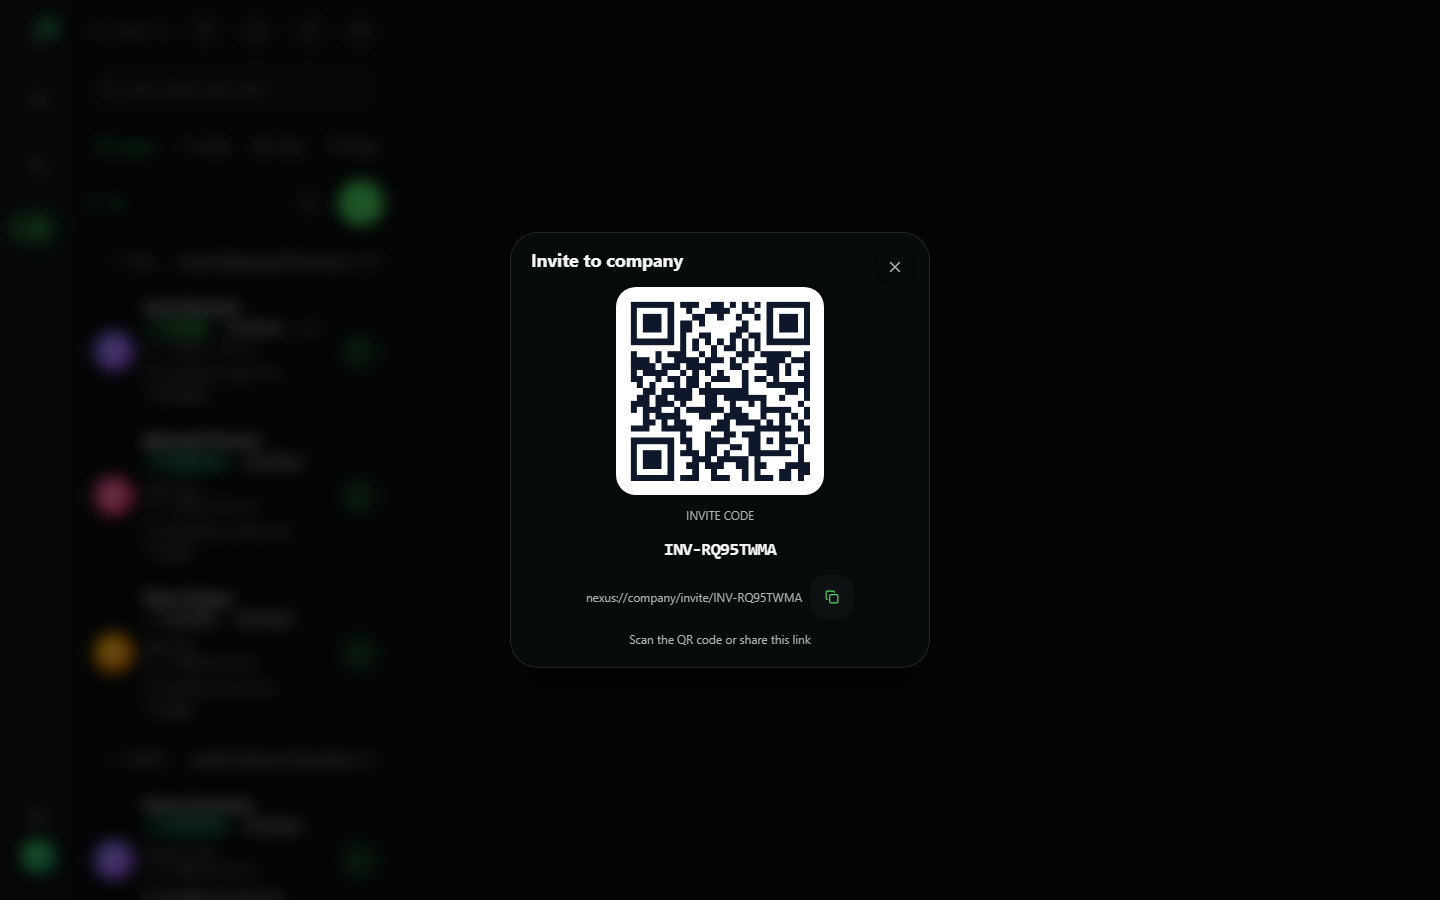
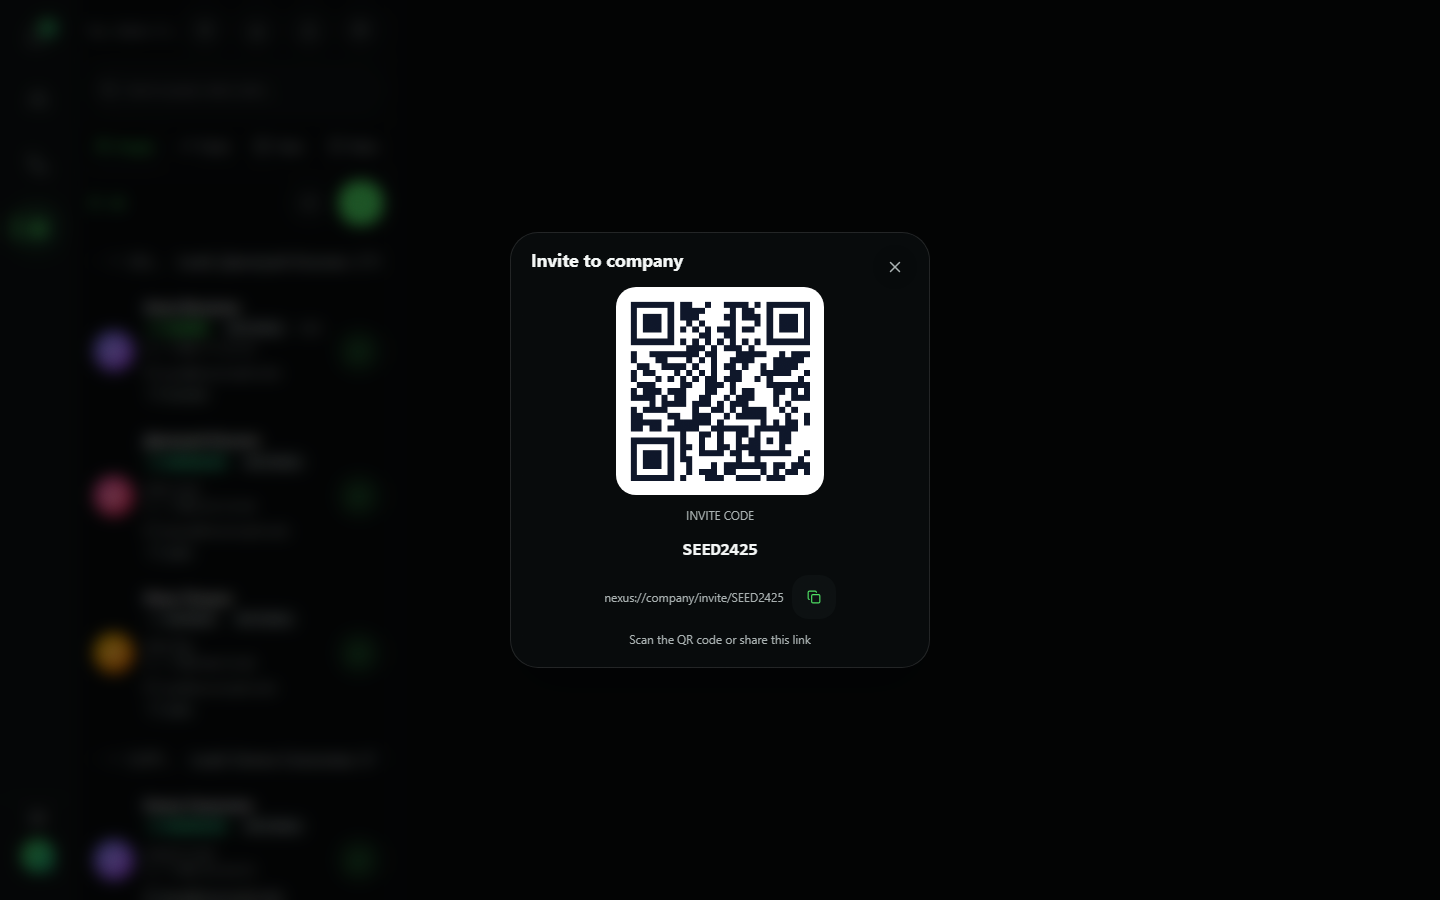
test(e2e): keep the CRM SEO screenshots out of routine runs
The screenshot spec rewrote the committed docs images on every e2e run, so a random invite code and a blinking caret left the working tree dirty. Routine runs now write to test-results and only an explicit refresh flag touches the committed files.

Changed region(s): [[0.4375, 0.3111, 0.5625, 0.56], [0.4062, 0.6533, 0.5938, 0.6844], [0.4688, 0.5911, 0.5312, 0.6222]]

diff --git a/e2e/crm-screenshots.spec.ts b/e2e/crm-screenshots.spec.ts
@@ -1,21 +1,48 @@
 /**
  * CRM Screenshots for SEO article.
  * Run: npx playwright test e2e/crm-screenshots.spec.ts
+ * Refresh the committed images:
+ *   UPDATE_SEO_SCREENSHOTS=1 npx playwright test e2e/crm-screenshots.spec.ts
+ *
  * Dev server runs via playwright.config.ts webServer (VITE_USE_MOCK=true).
  * Premium is seeded via localStorage entitlement cache so all 4 CRM tabs render.
+ *
+ * Routine e2e runs write the captures to test-results/ so the committed
+ * documentation images never churn; only the explicit refresh above replaces
+ * them.
  */
+import fs from 'node:fs';
+import path from 'node:path';
 import { test, expect, type Page } from '@playwright/test';
 import { ensureAppReady } from './test-utils';
 
 const SHOT_DIR = 'docs/seo/screenshots';
+/** Only an explicit refresh may replace the committed documentation images. */
+const REFRESH = process.env.UPDATE_SEO_SCREENSHOTS === '1';
+const OUT_DIR = REFRESH ? SHOT_DIR : path.join('test-results', 'seo-screenshots');
+
+/**
+ * Fixed placeholder for the company invite code.
+ *
+ * The CRM issues a random 8-character code per browser and renders it (plus a
+ * QR of the deep link) inside the invite dialog, so the screenshot changed on
+ * every run. The code is device-local — it only resolves against the invite
+ * table of the browser that generated it — so a seeded placeholder can never
+ * grant access to a real company.
+ */
+const FIXED_INVITE_CODE = 'SEED2425';
 
 async function seedPremium(page: Page) {
-  await page.addInitScript(() => {
-    localStorage.setItem(
-      'premium-entitlement-cache',
-      JSON.stringify({ premium: true, plan: 'premium', expiresAt: Date.now() + 90 * 24 * 3600 * 1000 }),
-    );
-  });
+  await page.addInitScript(
+    ({ inviteCode }) => {
+      localStorage.setItem(
+        'premium-entitlement-cache',
+        JSON.stringify({ premium: true, plan: 'premium', expiresAt: Date.now() + 90 * 24 * 3600 * 1000 }),
+      );
+      localStorage.setItem('neumorphic.crm.invite', inviteCode);
+    },
+    { inviteCode: FIXED_INVITE_CODE },
+  );
 }
 
 async function gotoCrm(page: Page) {
@@ -27,11 +54,27 @@ async function gotoCrm(page: Page) {
 
 async function shot(page: Page, name: string) {
   await page.waitForTimeout(500);
-  const p = await page.screenshot({ path: `${SHOT_DIR}/${name}.png` });
+  // `animations: disabled` fast-forwards CSS animations/transitions and
+  // `caret: hide` drops the blinking text caret, so two runs of the same view
+  // produce the very same pixels.
+  fs.mkdirSync(OUT_DIR, { recursive: true });
+  const p = await page.screenshot({
+    path: path.join(OUT_DIR, `${name}.png`),
+    animations: 'disabled',
+    caret: 'hide',
+  });
   expect(p.length).toBeGreaterThan(1000);
 }
 
 test.describe('CRM Screenshots', () => {
+  test.beforeEach(async ({ page }) => {
+    // The app already honours `prefers-reduced-motion: reduce` (see
+    // src/index.css and AnimationContext), so emulating it renders every
+    // screen in its settled state — the captures stay identical between runs
+    // instead of catching a half-finished animation.
+    await page.emulateMedia({ reducedMotion: 'reduce' });
+  });
+
   test('13-crm-overview', async ({ page }) => {
     await gotoCrm(page);
     await shot(page, '13-crm-overview');

diff --git a/CHANGELOG.md b/CHANGELOG.md
@@ -30,6 +30,12 @@
 - **Embed: инструкция «как встроить» в `SiteChatManager.tsx` + FAQ-пункт в `HelpSupportSection.tsx`** (2026-10-03): в карточке site-чата добавлен сворачиваемый `<details>`-блок «Как встроить на ваш сайт» с 3 шагами (скопировать код → вставить перед `</body>` → заявки и контакты попадают сюда и в CRM как веб-лиды), расположен под настройками виджета над snippet. В `HelpSupportSection` добавлен FAQ Q5/A5 про встраивание чата. i18n ×8 (`company.embedHowTo`/`embedStep1..3`, `settings.faqQ5`/`faqA5`). Регрессия: `SiteChatManager.test.tsx` **8/8** (+1: рендер шагов инструкции). Гейты: lint 0, tsc clean, l10n PASS (0 errors), `allTests.test.ts` **2778/2778**, `MediaViewer.test.tsx` **17/17**.
 
 ### Fixed
+- **SEO-скриншоты CRM больше не портят репозиторий (2026-10-22).** Спека `e2e/crm-screenshots.spec.ts` переписывала закоммиченные картинки в `docs/seo/screenshots/` при каждом прогоне e2e: случайный код приглашения CRM и качающийся каретка давали разные байты, поэтому рабочее дерево «пачкалось» после каждого полного прогона.
+  1. Ручные прогоны теперь пишут снимки в `test-results/seo-screenshots/`; закоммиченные картинки обновляются только при явном `UPDATE_SEO_SCREENSHOTS=1` (это артефакты документации, а не результаты тестов).
+  2. Код приглашения зафиксирован (`SEED2425`, только локальный deep link устройства — доступ к реальной компании он не даёт), анимации и каретка отключены при съёмке.
+  3. Проверено: два прогона подряд дают побайтово одинаковые файлы, а закоммиченные картинки совпадают с результатом обычного прогона (пиксельная разница 0).
+  4. D1-D5 перескан: 0 findings - правки только в e2e-спеке и артефактах документации.
+  Гейты: lint 0 (eslint + tsc), vitest **6582/6582** (382 файла), icon-font-audit 0 (657), button-audit 0 (289/436), l10n PASS (0 errors / 10 dynamic), component-audit 0/0/0, dead-export dead 0, orphan PASS, build 0 warnings, e2e **210/210** (11.7m).
 - **Сервер теперь под линтером (§1.4, 2026-10-22).** `eslint.config.mjs` исключал каталог `server/`, поэтому серверный код (аутентификация, БД, маршруты, сигналинг) проверялся только типами — без правил безопасности и без проверки синтаксиса линтером.
   1. `server/` убран из списка `ignores`: `eslint .` теперь покрывает `server/**/*.ts` (tsParser + eslint-plugin-security). Плагин `*.mjs` остаётся вне области — `scripts/**` и сам конфиг линтером не проверяются (проверено отдельно: чисто).
   2. Три предупреждения `security/detect-unsafe-regex` устранены без изменения языка регулярных выражений: в `server/middleware/clientIp.ts` повтор `(\.d{1,3}){3}` развёрнут в явное повторение, в `server/routes/paymento.ts` хвост `(?::.+)?$` заменён на `(?::.+|)$` (число групп захвата прежнее — разбор `m[1]`/`m[2]` не затронут). Эквивалентность доказана перебором 361 728 строк.

diff --git a/AGENTS.md b/AGENTS.md
@@ -907,3 +907,4 @@ npx vitest run
 | 2026-10-22 | 1 (§5.3: документация релизного пайплайна) | README: счётчики тестов приведены к фактическим (6577/381, e2e 210 в 23 спеках), в таблицу команд добавлены `npm run release`/`npm run verify`, в раздел Environment — описание четырёх переменных релизного пайплайна; те же переменные описаны в `.env.example`. Код не тронут. | lint 0, tsc clean, vitest **6577/6577** (381), icon-font 0 (657), button-audit 0 (289/436), l10n PASS, component-audit 0/0/0, dead-export dead 0, orphan PASS, build 0 warnings, ui-audit 14/14, visual 8/8 |
 | 2026-10-22 | 1 (§4.1/§5.3: загрузка переменных окружения) + 1 (аудит) | Сервер игнорировал `DB_PATH` (читал его раньше `dotenv.config()`) и `server/.env` (файл из README) — новый `server/env.ts` (`./.env` → `./server/.env` → `<cwd>/.env`) импортируется первым в 6 модулях; регрессия `server/__tests__/env.test.ts` (5). README/`.env.example`/`server/.env.example` — только реально читаемые переменные (4 мёртвые удалены, 3 клиентские добавлены). `orphan-module-audit` учитывает side-effect импорты и маппинг `.js`→`.ts`. | lint 0, tsc clean, vitest **6582/6582** (382), icon-font 0 (657), button-audit 0 (289/436), l10n PASS, component-audit 0/0/0, dead-export dead 0, orphan PASS, build 0 warnings, e2e **210/210** (11.8m) |
 | 2026-10-22 | 1 (§1.4: сервер вне линтера) | `eslint.config.mjs` исключал `server/` — серверный код проверялся только типами. `server/` убран из `ignores` (tsParser + eslint-plugin-security теперь покрывают `server/**/*.ts`); три `security/detect-unsafe-regex` устранены без смены языка регулярных выражений (повтор развёрнут в явный в `server/middleware/clientIp.ts`, хвост `(?::.+)?$` → `(?::.+|)$` в `server/routes/paymento.ts`, эквивалентность доказана перебором 361 728 строк, число групп захвата прежнее). `npx eslint server/**/*.ts` без `--quiet` — 0 ошибок и 0 предупреждений. | lint 0, tsc clean, vitest **6582/6582** (382), server 126/126, icon-font 0 (657), button-audit 0 (289/436), l10n PASS (0/10 dynamic), component-audit 0/0/0, dead-export dead 0, orphan PASS, build 0 warnings, e2e **210/210** |
+| 2026-10-22 | 1 (§4.1: детерминизм SEO-скриншотов CRM) | `e2e/crm-screenshots.spec.ts` переписывала закоммиченные `docs/seo/screenshots/*.png` при каждом прогоне (случайный код приглашения + каретка). Теперь ручные прогоны пишут в `test-results/seo-screenshots/`, закоммиченные картинки обновляются только при `UPDATE_SEO_SCREENSHOTS=1`; код приглашения зафиксирован (`SEED2425`, локальный deep link), анимации/каретка отключены. Два прогона подряд — побайтово одинаковые файлы. | lint 0, tsc clean, vitest **6582/6582** (382), icon-font 0 (657), button-audit 0 (289/436), l10n PASS (0/10 dynamic), component-audit 0/0/0, dead-export dead 0, orphan PASS, build 0 warnings, e2e **210/210** (11.7m) |
